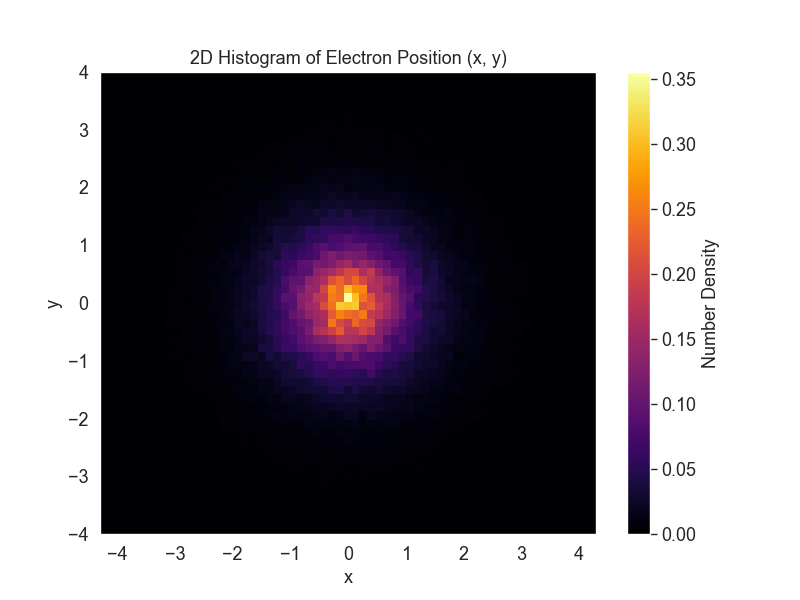
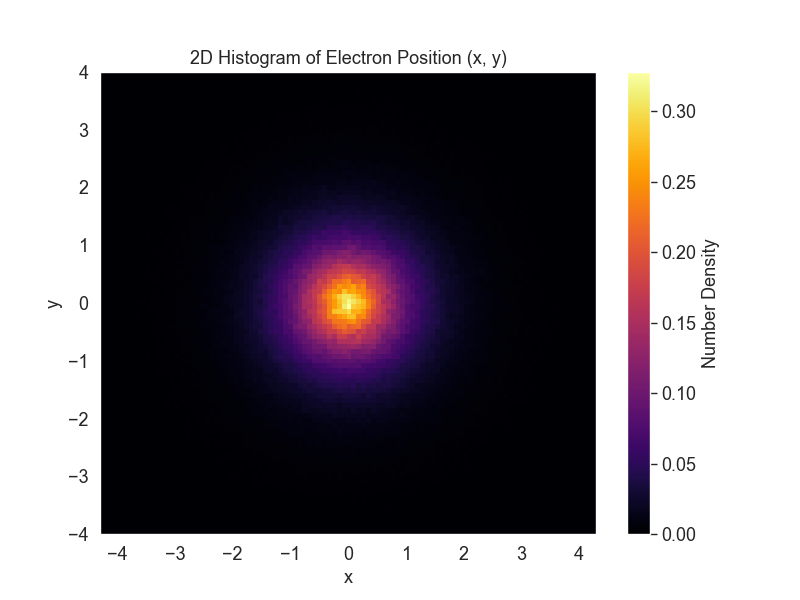
figures

diff --git a/Project/plot_morse.py b/Project/plot_morse.py
@@ -1,11 +1,11 @@
-def plot_energies():
-    import matplotlib.pyplot as plt
-    import pandas as pd
-    import numpy as np
-    from scipy.optimize import curve_fit
-    from modules.helpers import hydrogen_molecule_helpers as hlp
+import matplotlib.pyplot as plt
+import pandas as pd
+import numpy as np
+from scipy.optimize import curve_fit
+from modules.helpers import hydrogen_molecule_helpers as hlp
 
-    # --- 1. Load Data ---
+
+def plot_energies():
     energy_filename = "/Users/louis/Library/CloudStorage/OneDrive-ImperialCollegeLondon/Computer Science/Computational Physics/Project/morse_data/SR_Energy_Curve_100000.txt"
     thetas_filename = "/Users/louis/Library/CloudStorage/OneDrive-ImperialCollegeLondon/Computer Science/Computational Physics/Project/morse_data/SR_Parameters_100000.txt"
 
@@ -19,11 +19,10 @@ def plot_energies():
     filt = energies < 0.
     r_0_filt = r_0[filt]
     energies_filt = energies[filt]
+    energy_err_filt = energy_err[filt]
 
-    # --- 2. Plot 1: Raw Energies with Error Bars (Marker = 'x') ---
     plt.figure(figsize=(8, 6))
     plt.errorbar(r_0, energies, yerr=energy_err, label="Simulated Annealing Energies",
-                 # Added capsize for error bars
                  marker='x', linestyle='None', markersize=6, capsize=3)
     plt.xlabel("$r_0$ (a.u.)")
     plt.ylabel("Energy")
@@ -32,51 +31,52 @@ def plot_energies():
     plt.grid(True, which='both', linestyle='--', alpha=0.7)
     plt.show()
 
-    # --- 3. Plot 2: Morse Potential Fit ---
-    plt.figure(figsize=(8, 6))
-    plt.plot(r_0_filt, energies_filt, label="Simulated Annealing Energies",
-             marker='x', linestyle='None', markersize=6)  # Changed to 'x'
+    fig, ax = plt.subplots(1, 2, figsize=(14, 6))
+    ax[0].errorbar(r_0_filt, energies_filt, yerr=energy_err_filt, label="Stochastic Reconfiguraton Energies",
+                   marker='x', linestyle='None', markersize=6, capsize=3)
 
     f = hlp.V_morse
     p_0 = [0.17, 1.3, 1.4]
-    fit, cov = curve_fit(f, r_0_filt, energies_filt, p0=p_0)
-    plt.plot(r_0_filt, f(r_0_filt, *fit),
-             label="Morse Potential Fit", color='red')
+    fit, cov = curve_fit(f, r_0_filt, energies_filt,
+                         p0=p_0, sigma=energy_err_filt, absolute_sigma=False)
 
-    plt.xlabel("$r_0$ (a.u.)")
-    plt.ylabel("Energy")
-    plt.title("Hydrogen Molecule Energy vs Interatomic Distance")
-    plt.legend()
-    plt.grid(True, which='both', linestyle='--', alpha=0.7)
-    plt.show()
+    r_smooth = np.linspace(min(r_0_filt), max(r_0_filt), 200)
+    ax[0].plot(r_smooth, f(r_smooth, *fit),
+               label="Morse Potential Fit", color='red')
+
+    ax[0].set_xlabel("$r_0$ (a.u.)")
+    ax[0].set_ylabel("Energy")
+    ax[0].set_title("Hydrogen Molecule Energy vs Interatomic Distance")
+    ax[0].legend()
+    ax[0].grid(True, which='both', linestyle='--', alpha=0.7)
 
     print(
         f"Fitted Parameters:\n De (Depth) = {fit[0]:.4f}\n a  (Width) = {fit[1]:.4f}\n re (Eq. Pos)= {fit[2]:.4f}")
     print(f"Parameter Errors: {np.sqrt(np.diag(cov))}")
 
-    # --- 4. Plot 3: All Thetas in ONE Subplot ---
     thetas = pd.read_csv(thetas_filename, sep='\s+', comment='#', names=[
                          'Distance', 'Theta1', 'Theta2', 'Theta3'])
+
+    thetas = thetas.sort_values(by='Distance')
+
     r_0_thetas = thetas['Distance'].to_numpy()
     theta1 = thetas['Theta1'].to_numpy()
     theta2 = thetas['Theta2'].to_numpy()
     theta3 = thetas['Theta3'].to_numpy()
 
-    plt.figure(figsize=(8, 6))
+    ax[1].plot(r_0_thetas, theta1, label=r"$\theta_1$ (Orbital)",
+               marker='x', linestyle='--', alpha=0.8)
+    ax[1].plot(r_0_thetas, theta2, label=r"$\theta_2$ (Jastrow Num)",
+               marker='x', linestyle='--', alpha=0.8)
+    ax[1].plot(r_0_thetas, theta3, label=r"$\theta_3$ (Jastrow Denom)",
+               marker='x', linestyle='--', alpha=0.8)
 
-    # Plot all three on the same axes
-    plt.plot(r_0_thetas, theta1, label=r"$\theta_1$ (Orbital)",
-             marker='x', linestyle='--', alpha=0.8)
-    plt.plot(r_0_thetas, theta2, label=r"$\theta_2$ (Jastrow Num)",
-             marker='x', linestyle='--', alpha=0.8)
-    plt.plot(r_0_thetas, theta3, label=r"$\theta_3$ (Jastrow Denom)",
-             marker='x', linestyle='--', alpha=0.8)
+    ax[1].set_xlabel("$r_0$ (a.u.)")
+    ax[1].set_ylabel("Parameter Value")
+    ax[1].set_title("Evolution of Variational Parameters vs Distance")
+    ax[1].legend()
+    ax[1].grid(True, which='both', linestyle='--', alpha=0.7)
 
-    plt.xlabel("$r_0$ (a.u.)")
-    plt.ylabel("Parameter Value")
-    plt.title("Evolution of Variational Parameters vs Distance")
-    plt.legend()
-    plt.grid(True, which='both', linestyle='--', alpha=0.7)
     plt.tight_layout()
     plt.show()
 

diff --git a/Project/hydrogen_molecule.py b/Project/hydrogen_molecule.py
@@ -11,6 +11,16 @@ from modules.function_sampling import metropolis_hastings, MALA
 from modules.minimisers import hydrogen_molecule_minimisers as minimisers
 import matplotlib.pyplot as plt
 
+size = 23
+
+plt.rc('font', size=size)
+plt.rc('axes', titlesize=size)
+plt.rc('axes', labelsize=size)
+plt.rc('xtick', labelsize=size)
+plt.rc('ytick', labelsize=size)
+plt.rc('legend', fontsize=15)
+plt.rc('figure', titlesize=size)
+
 
 class h2_wavefunction:
     def __init__(self, thetas: np.ndarray, q1: np.ndarray, q2: np.ndarray):
@@ -185,15 +195,17 @@ def test_SR():
     q1 = [0, 0, 2]
     q2 = [0, 0, 0]
 
-    N_s = 100000
+    N_s = 10000
     thetas_0 = [1.3] * 3  #  for minimiser
     alphas = [.1]  #  np.linspace(0.1, 1., 20)
     for alpha in alphas:
-        theta_min, E_min, results = minimisers.stochastic_reconfiguration(q1, q2, x_0=thetas_0,
-                                                                          alpha=alpha, stop_tol=0.005, N_s=N_s, sampling="MH", detail=True, trace=True, max_iter=30)
+        theta_min, E_min, E_err = minimisers.stochastic_reconfiguration(
+            q1, q2, x_0=thetas_0, alpha=0.2, stop_tol=0.005, N_s=N_s,
+            detail=False, sampling="MH", max_iter=70, return_error=True, trace=False
+        )
 
-        print(f"minimum theta: {theta_min}, minimum energy: {E_min}")
-        results['figure'].show()
+        print(f"minimum theta: {theta_min}, minimum energy: {E_min} ± {E_err}")
+        # results['figure'].show()
 
 
 def test_QN():
@@ -367,14 +379,14 @@ def process_bond_length(args):
     q1, q2_i, thetas_0, Ns, r_val = args
     print(f"Processing bond length: {r_val} a.u.")
 
-    # theta_min, E_min, E_err = minimisers.stochastic_reconfiguration(
-    #     q1, q2_i, x_0=thetas_0, alpha=0.2, stop_tol=0.005, N_s=Ns,
-    #     detail=False, sampling="sMALA", max_iter=70, return_error=True, trace=False
-    # )
-
-    theta_min, E_min, E_err = minimisers.simulated_annealing(
-        q1, q2_i, x_0=thetas_0, initial_temp=0.5, cooling_rate=0.95, max_iter=200, Ns=Ns, std=0.05, detail=False, return_error=True
+    theta_min, E_min, E_err = minimisers.stochastic_reconfiguration(
+        q1, q2_i, x_0=thetas_0, alpha=0.2, stop_tol=0.005, N_s=Ns,
+        detail=False, sampling="MH", max_iter=100, return_error=True, trace=False
     )
+
+    # theta_min, E_min, E_err = minimisers.simulated_annealing(
+    #     q1, q2_i, x_0=thetas_0, initial_temp=0.5, cooling_rate=0.95, max_iter=200, Ns=Ns, std=0.05, detail=False, return_error=True
+    # )
 
     return r_val, E_min, theta_min, E_err
 
@@ -382,7 +394,7 @@ def process_bond_length(args):
 def parallel_ground_state_energies(n_procs=4):
     import multiprocessing as mp
     from scipy.optimize import curve_fit
-    Ns = 10000
+    Ns = 100000
     r_0 = np.linspace(0.5, 3., 60)
 
     q1 = [0., 0., 0.]
@@ -451,6 +463,7 @@ def parallel_ground_state_energies(n_procs=4):
 
 
 if __name__ == '__main__':
-    test_samples()
+    # test_SR()
     # test_minimisers_convergence(alpha=0.1)
-    # parallel_ground_state_energies(n_procs=12)
+    parallel_ground_state_energies(n_procs=12)
+    # test_samples()

diff --git a/Project/plot_convergence.py b/Project/plot_convergence.py
@@ -1,3 +1,67 @@
+import json
 import matplotlib.pyplot as plt
 import pandas as pd
 import numpy as np
+import os
+
+FILE_PATH = "Project/convergence data/convergence_summary_alpha_0.1.json"
+WINDOW_SIZE = 5
+SA_CUTOFF = 120
+
+
+with open(FILE_PATH, 'r') as f:
+    data = json.load(f)
+
+    plt.figure(figsize=(10, 6))
+
+    colors = {
+        "Stochastic Reconfiguration": "#e41a1c",
+        "Gradient Descent": "#377eb8",
+        "RMSProp_GD": "#4daf4a",
+        "Quasi-Newton DFP": "#984ea3",
+        "Quasi-Newton BFGS": "#ff7f00",
+        "Simulated Annealing": "#000000"
+    }
+
+    for method, details in data.items():
+        history = details.get("Es_history", [])
+        arr = np.array(history, dtype=np.float64)
+
+        if np.isnan(arr).any():
+            valid_indices = np.where(~np.isnan(arr))[0]
+            if len(valid_indices) > 0:
+                last_valid_idx = valid_indices[-1]
+                arr = arr[:last_valid_idx+1]
+            else:
+                continue
+
+        if method == "Simulated Annealing":
+            arr = arr[:SA_CUTOFF]
+
+        series = pd.Series(arr)
+        moving_avg = series.rolling(window=WINDOW_SIZE, min_periods=1).mean()
+
+        plt.plot(moving_avg, label=method, color=colors.get(
+            method, 'gray'), linewidth=2)
+        plt.plot(arr, color=colors.get(method, 'gray'),
+                 linewidth=0.5, alpha=0.25)
+
+        if method == "RMSProp_GD":
+            residuals = np.abs(arr - moving_avg)
+            std_dev = np.nanstd(residuals)
+            threshold = 2.5 * std_dev
+            anomalies_mask = residuals > threshold
+
+            anomalous_x = np.where(anomalies_mask)[0]
+            anomalous_y = arr[anomalies_mask]
+
+            plt.scatter(anomalous_x, anomalous_y, color='red',
+                        marker='x', s=60, zorder=5, label='RMSProp Anomalies')
+
+    plt.xlabel("Iteration", fontsize=12)
+    plt.ylabel(f"Energy (Ha)", fontsize=12)
+    plt.title("Convergence of H$_2$ Minimisers", fontsize=14)
+    plt.legend(frameon=True, fontsize=10)
+    plt.grid(True, linestyle='--', alpha=0.7)
+    plt.tight_layout()
+    plt.show()

diff --git a/Project/modules/minimisers.py b/Project/modules/minimisers.py
@@ -15,7 +15,7 @@ class hydrogen_molecule_minimisers:
         E_l = wf_temp.local_energy(r1, r2)
 
         if return_std:
-            return np.nanmean(E_l), np.std(E_l, ddof=1)
+            return np.nanmean(E_l), np.nanstd(E_l, ddof=1)
         return np.nanmean(E_l)
 
     @staticmethod
@@ -115,13 +115,12 @@ class hydrogen_molecule_minimisers:
         r = samples[len(samples)//10:]
         r1, r2 = r[:, 0:3], r[:, 3:6]
 
-        if detail:
-            from modules.helpers import get_acf
-            acf = get_acf(samples, max_lag=500)
-            ess = len(samples) / (1 + 2 * np.sum(acf[1:]))
-            if trace:
-                print(f"Effective Sample Size (ESS): {ess:.1f}")
-                print(f"Acceptance Rate: {acceptance*100:.2f}%")
+        from modules.helpers import get_acf
+        acf = get_acf(samples, max_lag=500)
+        ess = len(samples) / (1 + 2 * np.sum(acf[1:]))
+        if trace:
+            print(f"Effective Sample Size (ESS): {ess:.1f}")
+            print(f"Acceptance Rate: {acceptance*100:.2f}%")
 
         if return_ESS:
             return r1, r2, ess
@@ -447,7 +446,15 @@ class hydrogen_molecule_minimisers:
             return x, Es[-1], results
 
         if return_error:
-            return x, hydrogen_molecule_minimisers.E_fn(x, q1, q2, r1, r2), std_dev_last_10/np.sqrt(10)
+            wf_final = h2_wavefunction(x, q1, q2)
+            r1_final, r2_final, ess = hydrogen_molecule_minimisers.sample_coords(
+                wf_final, N_s, r_0, detail=False, trace=False, return_ESS=True)
+
+            E, std = hydrogen_molecule_minimisers.E_fn(
+                x, q1, q2, r1_final, r2_final, return_std=True)
+            E_err = std_dev_last_10/np.sqrt(10) + std/np.sqrt(ess)
+            return x, E, E_err
+
         return x, hydrogen_molecule_minimisers.E_fn(x, q1, q2, r1, r2)
 
     def gradient_descent(q1: np.ndarray, q2: np.ndarray, x_0: np.ndarray, alpha: float, max_iter: int = 100, stop_tol: float = 1e-6, N_s: int = 10000, sampling: str = "MH", detail: bool = False, trace: bool = False, return_error: bool = False) -> tuple:

diff --git a/Project/hydrogen.py b/Project/hydrogen.py
@@ -95,14 +95,13 @@ def ground_state():
 
 def plot_ground_state():
     import matplotlib.pyplot as plt
-    theta_min, E_min, E_err = ground_state()
-    ground_state_wavefunction = hydrogen_wavefunction(theta_min)
-    samples = metropolis_hastings(f=ground_state_wavefunction.probability_density, f_prop='gaussian', x_0=[1., 1., 1.], xmin=[-10., -10., -10.], xmax=[10., 10., 10.], N=1000000, kwrgs={
+    ground_state_wavefunction = hydrogen_wavefunction(1.)
+    samples = metropolis_hastings(f=ground_state_wavefunction.probability_density, f_prop='gaussian', x_0=[1., 1., 1.], xmin=[-10., -10., -10.], xmax=[10., 10., 10.], N=10000000, kwrgs={
         'sigma': 1.8}, detail=True)
     samples = samples[len(samples)//10:]
     x, y, z = samples[:, 0], samples[:, 1], samples[:, 2]
     plt.figure(figsize=(8, 6))
-    plt.hist2d(x, y, bins=100, cmap='inferno', density=True)
+    plt.hist2d(x, y, bins=200, cmap='inferno', density=True)
     plt.colorbar(label='Number Density')
     plt.title(f'2D Histogram of Electron Position (x, y)')
     plt.xlabel('x')

diff --git a/Project/modules/helpers.py b/Project/modules/helpers.py
@@ -139,7 +139,7 @@ class hydrogen_molecule_helpers:
 
         else:
             heatmap_matrix, _, _ = np.histogram2d(x_coords, y_coords,
-                                                  bins=500,
+                                                  bins=200,
                                                   range=[xlim, ylim],
                                                   density=True)
             img = ax.imshow(heatmap_matrix.T,

diff --git a/Project/testing_samplers.py b/Project/testing_samplers.py
@@ -8,6 +8,16 @@ sns.set_style('darkgrid')
 sns.set_context('paper')
 sns.set_palette("colorblind")
 
+size = 15
+
+plt.rc('font', size=size)
+plt.rc('axes', titlesize=size-3)
+plt.rc('axes', labelsize=size)
+plt.rc('xtick', labelsize=size)
+plt.rc('ytick', labelsize=size)
+plt.rc('legend', fontsize=size-2)
+plt.rc('figure', titlesize=size)
+
 
 def optimise_step_H2():
     q1 = np.array([0, 0, 1])
